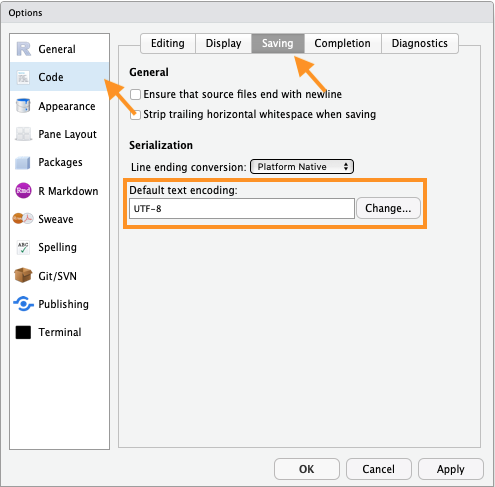
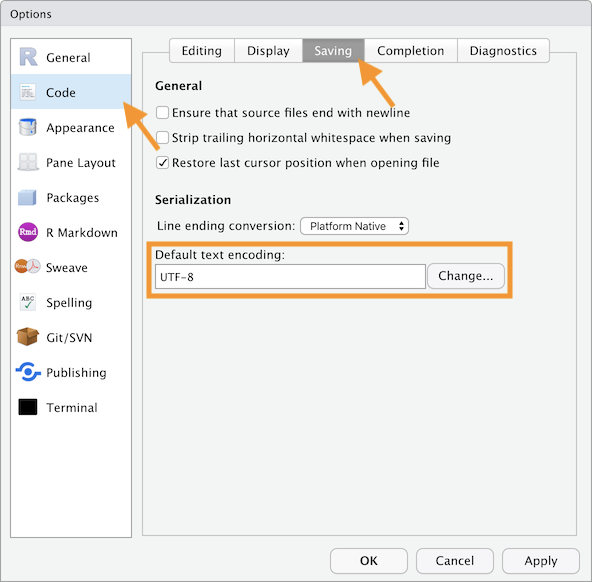
Ajouter une configuration de RStudio
Recommandation de désactiver l'option `Restore .RData into workspace
at startup` dans RStudio afin de toujours démarrer avec une séance de
travail vierge.

Mise à jour des captures d'écran du panneau de configuration de
RStudio pour la version 1.2 de l'éditeur.

Changed region(s): [[0.0, 0.0, 1.0, 1.0], [0.6061, 0.9548, 0.6364, 0.9856], [0.0909, 0.154, 0.1212, 0.1848]]

diff --git a/rstudio.tex b/rstudio.tex
@@ -348,11 +348,14 @@ sous macOS.
 
 Je recommande d'effectuer les configurations suivantes.
 \begin{enumerate}
-\item Dans la catégorie des options de configuration générales, régler
-  l'option \code{Save workspace to .RData on exit} à \code{Never}, tel
-  qu'illustré à la \autoref{fig:rstudio:rstudio-on-exit}. Avec ce
-  réglage, l'espace de travail de R ne sera pas sauvegardé à la
-  fermeture de RStudio.
+\item Dans la catégorie des options de configuration générales,
+  désactiver l'option \code{Restore .RData into workspace at startup}
+  et régler l'option \code{Save workspace to .RData on exit} à
+  \code{Never}, tel qu'illustré à la
+  \autoref{fig:rstudio:rstudio-startup-and-exit}. Avec ces réglages,
+  RStudio démarre toujours avec une séance de travail vierge et ne
+  sauvegarde pas l'espace de travail de R à la fermeture de
+  l'application.
 \item Dans la catégorie \code{Code} et la sous-catégorie
   \code{Editing}, régler l'option \code{Tab width} à \code{4} afin
   d'indenter le code de quatre caractères par défaut. (Ce réglage fait
@@ -368,10 +371,10 @@ Je recommande d'effectuer les configurations suivantes.
 
 \begin{figure}
   \centering
-  \includegraphics{images/rstudio-on-exit}
+  \includegraphics{images/rstudio-startup-and-exit}
   \caption{Réglage de RStudio pour ne pas sauvegarder l'espace
     de travail de R au moment de quitter l'application}
-  \label{fig:rstudio:rstudio-on-exit}
+  \label{fig:rstudio:rstudio-startup-and-exit}
 \end{figure}
 
 \begin{figure}
